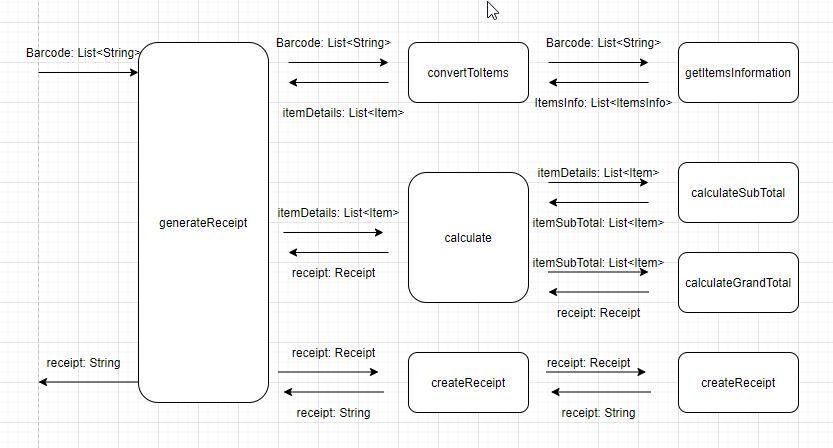
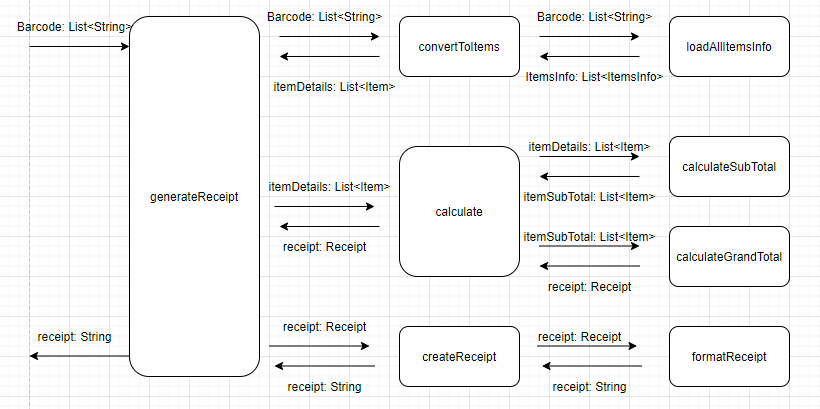
[POSV2][KEVIN]feat:generatin receiipt

diff --git a/src/main/java/pos/machine/PosMachine.java b/src/main/java/pos/machine/PosMachine.java
@@ -1,14 +1,74 @@
 package pos.machine;
-
-import java.util.List;
-
+import java.util.*;
 public class PosMachine {
     public String printReceipt(List<String> barcodes) {
-        return null;
+        List<Item> itemsDetails = convertToItems(barcodes);
+        Receipt receipt = setToReceipt(itemsDetails);
+        return createReceipt(receipt); //printing output
+    }
+    private String createReceipt(Receipt receipt) {
+        String itemOutput = formatReceipt(receipt);
+        return ("***<store earning no money>Receipt***\n" + itemOutput + "----------------------\n" +
+                "Total: " + receipt.getTotalPrice() + " (yuan)\n" +
+                "**********************"); // generate output
+    }
+    private String formatReceipt(Receipt receipt) {
+        String itemsDetail = "";
+        for (Item itemValue : receipt.getItemList())//since for each this will output 3 items
+        {
+            itemsDetail += "Name: "+ itemValue.getName() +
+                    ", Quantity: " + itemValue.getQuantity() +
+                    ", Unit price: " + itemValue.getUnitPrice() + " (yuan)" +
+                    ", Subtotal: " + itemValue.getSubTotal() + " (yuan)\n";
+        }
+        return itemsDetail; //concat to 1string
+    }
+    private Receipt setToReceipt(List<Item> itemsList) { //create receipt
+        Receipt receipt = new Receipt();
+        receipt.setItemList(calculateSubTotal(itemsList)); //set items to receipt
+        receipt.setTotalPrice(calculateGrandPrice(itemsList));//set total to receipt
+        return receipt;
+    }
+    private int calculateGrandPrice(List<Item> itemsList) {
+        int grandTotal = 0;
+        for(Item itemValue : itemsList)
+        {
+            grandTotal += itemValue.getSubTotal();
+        }
+        return grandTotal;
+    }
+    private List<Item> calculateSubTotal(List<Item> itemsList) { //calculate subtotal by multiplying quantity and price
+        for(Item itemValue : itemsList)
+        {
+            itemValue.setSubTotal(itemValue.getQuantity()*itemValue.getUnitPrice());
+        }
+        return itemsList;
+    }
+    private List<Item> convertToItems(List<String> barcodes) { //get all the informations
+        LinkedList<Item> items = new LinkedList<Item>();
+        List<ItemInfo> itemInfo = loadAllItemsInfo(); //load info from dataloader
+        barcodes = new ArrayList<>(new LinkedHashSet<>(barcodes)); //eradicate duplicates
+        for (String barcode : barcodes) // barcodes without duplicates
+        {
+            Item itemValue = new Item();
+            for (ItemInfo itemInfoVal : itemInfo)
+            { //get each using barcode from ItemDataLoader Iteminfo
+                if (barcode.equals(itemInfoVal.getBarcode())) {
+                    itemValue.setName(itemInfoVal.getName());
+                    itemValue.setUnitPrice(itemInfoVal.getPrice());
+                    itemValue.setQuantity(retrieveItemCount(barcode));
+                }
+            }
+            items.add(itemValue); //set to items
+        }
+        return items;
+    }
+    private int retrieveItemCount(String currentItemBarcode) {
+        return Collections.frequency(ItemDataLoader.loadBarcodes(), currentItemBarcode); //will get the frequency
+    }
+    private List<ItemInfo> loadAllItemsInfo(){
+        return ItemDataLoader.loadAllItemInfos();
     }
 
-
 }
-
-
 

diff --git a/src/main/java/pos/machine/Item.java b/src/main/java/pos/machine/Item.java
@@ -1,0 +1,45 @@
+package pos.machine;
+
+public class Item {
+    private String name;
+    private int quantity;
+    private int unitPrice;
+    private int subTotal;
+
+    public String getName() {
+        return name;
+    }
+
+    public void setName(String name) {
+        this.name = name;
+    }
+
+    public int getQuantity() {
+        return quantity;
+    }
+
+    public void setQuantity(int quantity) {
+        this.quantity = quantity;
+    }
+
+    public int getUnitPrice() {
+        return unitPrice;
+    }
+
+    public void setUnitPrice(int unitPrice) {
+        this.unitPrice = unitPrice;
+    }
+
+    public int getSubTotal() {
+        return subTotal;
+    }
+
+    public void setSubTotal(int subTotal) {
+        this.subTotal = subTotal;
+    }
+
+
+
+
+
+}

diff --git a/src/main/java/pos/machine/Receipt.java b/src/main/java/pos/machine/Receipt.java
@@ -1,0 +1,23 @@
+package pos.machine;
+import java.util.List;
+
+public class Receipt {
+    public List<Item> getItemList() {
+        return itemList;
+    }
+
+    public void setItemList(List<Item> itemList) {
+        this.itemList = itemList;
+    }
+
+    public int getTotalPrice() {
+        return totalPrice;
+    }
+
+    public void setTotalPrice(int totalPrice) {
+        this.totalPrice = totalPrice;
+    }
+
+    private List<Item> itemList;
+    private int totalPrice;;
+}

diff --git a/src/main/java/pos/machine/main.java b/src/main/java/pos/machine/main.java
@@ -1,0 +1,9 @@
+package pos.machine;
+import pos.machine.*;
+public class main {
+    public static void main(String[] args) {
+        PosMachine posMachine = new PosMachine();
+        System.out.println(posMachine.printReceipt(ItemDataLoader.loadBarcodes()));
+      //  System.out.println(posMachine.generateItemsDetail(ItemDataLoader.loadBarcodes()));
+    }
+}

diff --git a/PDCA.md b/PDCA.md
@@ -1,0 +1,35 @@
+loadAllItemsInfo
+P - 5mins
+D - 3:48:29
+C - Try to practice more with Java OOP
+A - Find in google to use list from other class
+
+convertToItems
+P - 20mins
+D - 28:29:57
+C - Finds hard to access values from data loader at first then also find hard to eradicate duplicates from the barcode list
+A - surf online and ask others
+
+calculateSubTotal
+P - 3mins
+D - 1:57:21
+C - Just needs to multiply quantity by price
+A - get the values from itemlist then multiply
+
+calculateGrandTotal
+P - 3mins
+D - 1:39:43
+C - Just need to add each subTotal
+A - get the subtotal values from itemList and add all
+
+formatReceipt
+P - 10mins
+D - 9:42:32
+C - Took time finding the solution
+A - Find a solution to concat all in a single string variable
+
+createReceipt
+P - 5
+D - 4:12:21
+C - Needs to output the receipt which is formatted
+A - none
